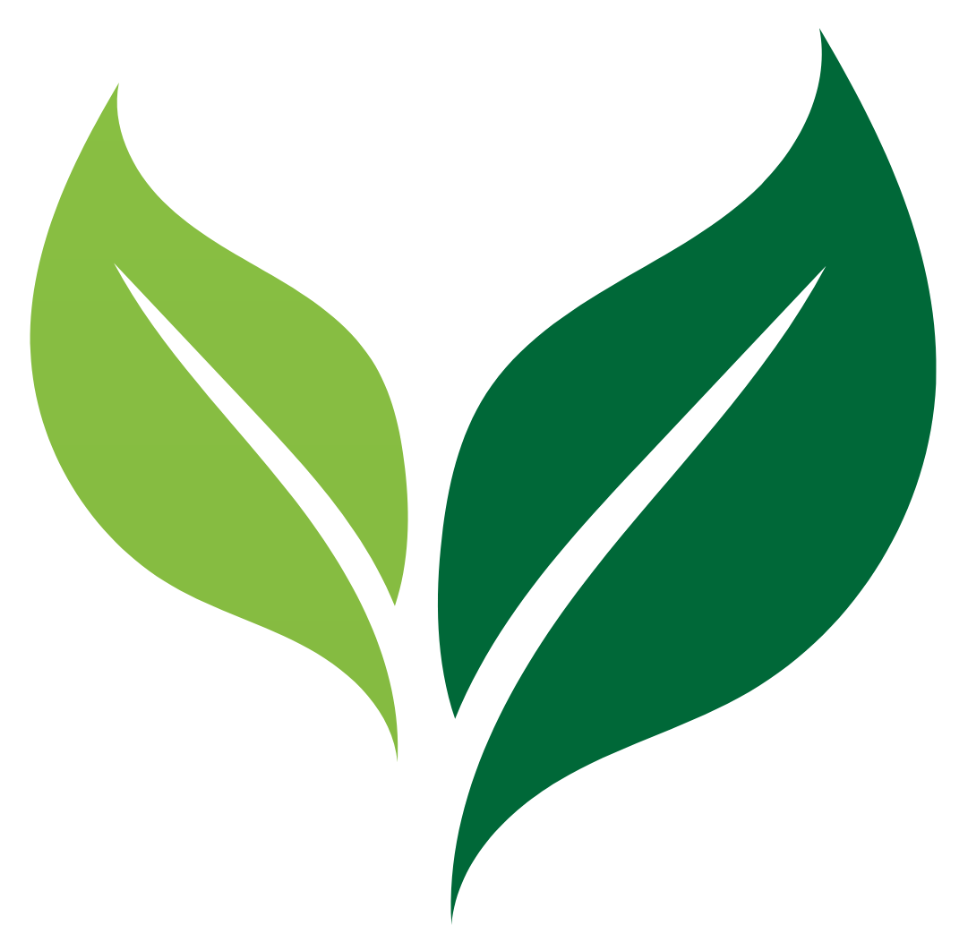
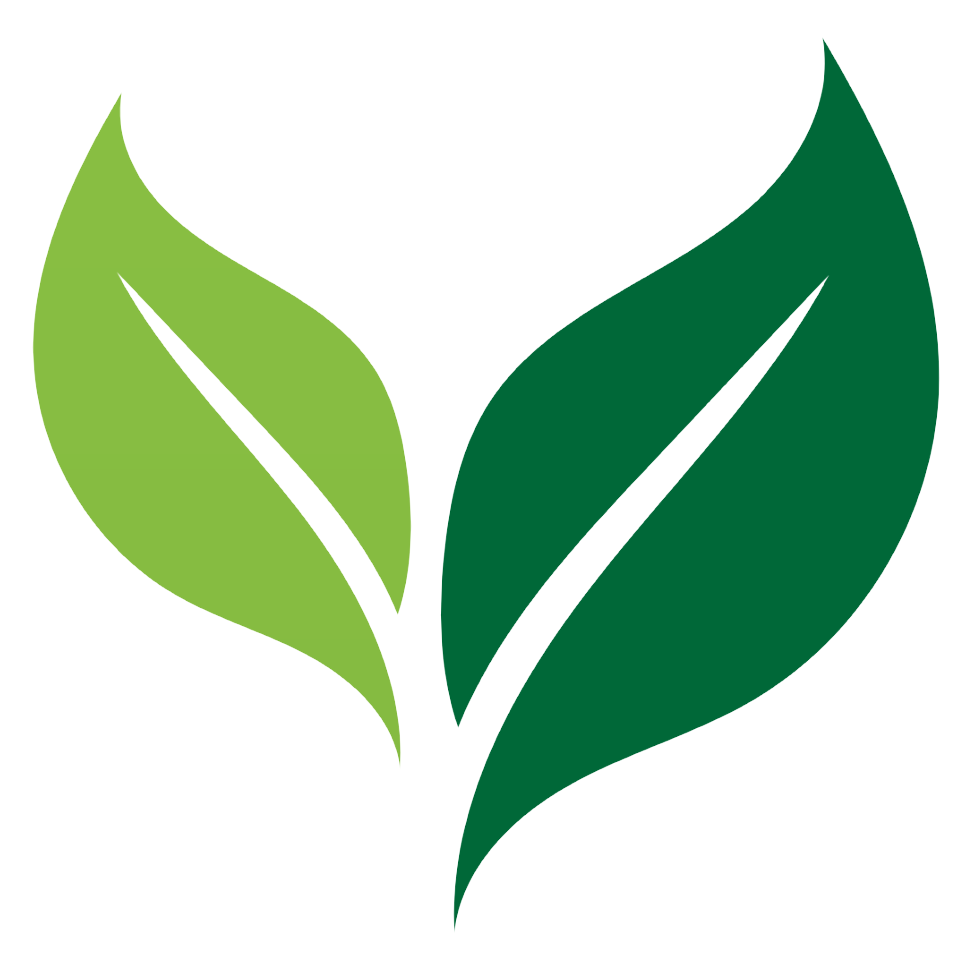
Section welcome

diff --git a/style.css b/style.css
@@ -4,11 +4,12 @@
 @import url('https://fonts.googleapis.com/css2?family=Belleza&display=swap');
 
 :root {
-    --light:#ffffff;
-    --dark:#685e54;
-    --lgreen:#50ff67;
-    --dgreen:#3cb64c;
-    --brown:#c18e5e;
+    --light: #ffffff;
+    --grey: #685e54;
+    --green1: #50ff67;
+    --green2: #3cb64c;
+    --green3: #253526;  /* added */
+    --brown: #c18e5e;
 }
 
 body {
@@ -19,8 +20,8 @@ header {
     position: sticky;
     top: 0;
     display: flex;
-    padding: 10px;
-    background-color: var(--dark);
+    padding: 15px;
+    background-color: var(--green3);
     justify-content: space-between;
     align-items: center;
     nav {
@@ -42,16 +43,26 @@ header {
 }
 
 section {
-    padding: 50px;
+    p {
+        padding: 0 12vw;
+    }
 }
-section.bg-lightgreen {
-    background-color: var(--lgreen);
+section:not(.flex) {
+    padding: 50px 12vw;
 }
-section.bg-darkgreen {
-    background-color: var(--dgreen);
+section.flex {
+    margin: 50px;
+    padding: 0;
+    background-color: #f0fa;
+    display: flex;
+    justify-content: space-around;
+    align-items: center;
+    img {
+    }
 }
-section.bg-brown {
-    background-color: var(--brown);
+section.flex.col {
+    flex-direction: column;
+    justify-content: flex-start;
 }
 
 h1, h2, h3, h4, h5, h6 {
@@ -60,26 +71,24 @@ h1, h2, h3, h4, h5, h6 {
 }
 h1 {
     text-align: center;
-    font-size: 4rem;
+    font-size: 4.5rem;
 }
 
-p {
+p, a {
     font-family: Cardo, serif;
+    font-size: 1.1rem;
 }
 
-footer{
-    background-color: var(--dark);
-    padding: 15px;
-
+footer {
+    background-color: var(--green3);
+    padding: 30px;
     a {
         text-decoration: none;
         color: var(--light);
-        font-family: Belleza, serif;
         font-size: 1.2rem;
     }
-
     div {
-        margin-bottom: 10px;
+        margin-bottom: 30px;
         display: flex;
         justify-content: center;
         align-items: center;
@@ -87,15 +96,20 @@ footer{
     ul {
         margin: 0 15px;
     }
-
+    li {
+        margin: 8px 0;
+    }
     p {
         text-align:center;
-        font-family: Cardo, serif;
+        font-family: Belleza, serif;
         color: var(--light);
-        font-size: 0.6rem;
+        font-size: 0.9rem;
+    }
+    p:last-child {
+        color: var(--brown);
+    }
+}
 
-    }
-    .logo {
-        height: 50px;
-    }
+img.logo {
+    max-height: 80px;
 }

diff --git a/index.html b/index.html
@@ -8,13 +8,19 @@
 
     <style>
         #welcome {
+            height: calc(100vh - 180px);
+            background-color: var(--green2);
             text-align: center;
             h1 {
-                color: var(--light);
+                color: var(--green3);
             }
             p:first-child {
+                color: var(--light);
                 font: 1.5em Belleza;
                 font-weight: bold;
+            }
+            .logo {
+                margin: 30px;
             }
         }
     </style>
@@ -31,13 +37,30 @@
 </header>
 
 <main>
-    <section class="bg-darkgreen" id="welcome">
+    <section id="welcome" class="">
         <p>Anjou Pack'Eco</p>
         <h1>Bienvenue</h1>
+        <img src="/assets/feuille2.png" alt="Anjou Pack'Eco" class="logo">
+        <p>
+            Lorem ipsum dolor sit amet, consectetur adipiscing elit, sed do eiusmod tempor incididunt ut labore et dolore magna aliqua.
+            Ut enim ad minim veniam, quis nostrud exercitation ullamco laboris nisi ut aliquip ex ea commodo consequat.
+            Duis aute irure dolor in reprehenderit in voluptate velit esse cillum dolore eu fugiat nulla pariatur.
+            Excepteur sint occaecat cupidatat non proident, sunt in culpa qui officia deserunt mollit anim id est laborum.
+        </p>
+        <section class="flex">
+            <img src="https://placehold.co/400x600" alt="?">
+            <img src="https://placehold.co/400x600" alt="?">
+        </section>
+    </section>
 
+    <section>
+        <h2>Nos produits</h2>
+<!--        <section class="flex">-->
+<!--            <img src="https://placehold.co/300" alt="?">-->
+<!--            <img src="https://placehold.co/300" alt="?">-->
+<!--        </section>-->
     </section>
 </main>
-
 
 <footer>
     <div>
@@ -59,9 +82,7 @@
             </li>
         </ul>
     </div>
-
-    <p class="copdat">Copyright © 2024 Thibaud COUDRIN & Noé LETEURTRE</p>
-
+    <p>Copyright © 2024 Thibaud COUDRIN & Noé LETEURTRE</p>
 </footer>
 </body>
 </html>
